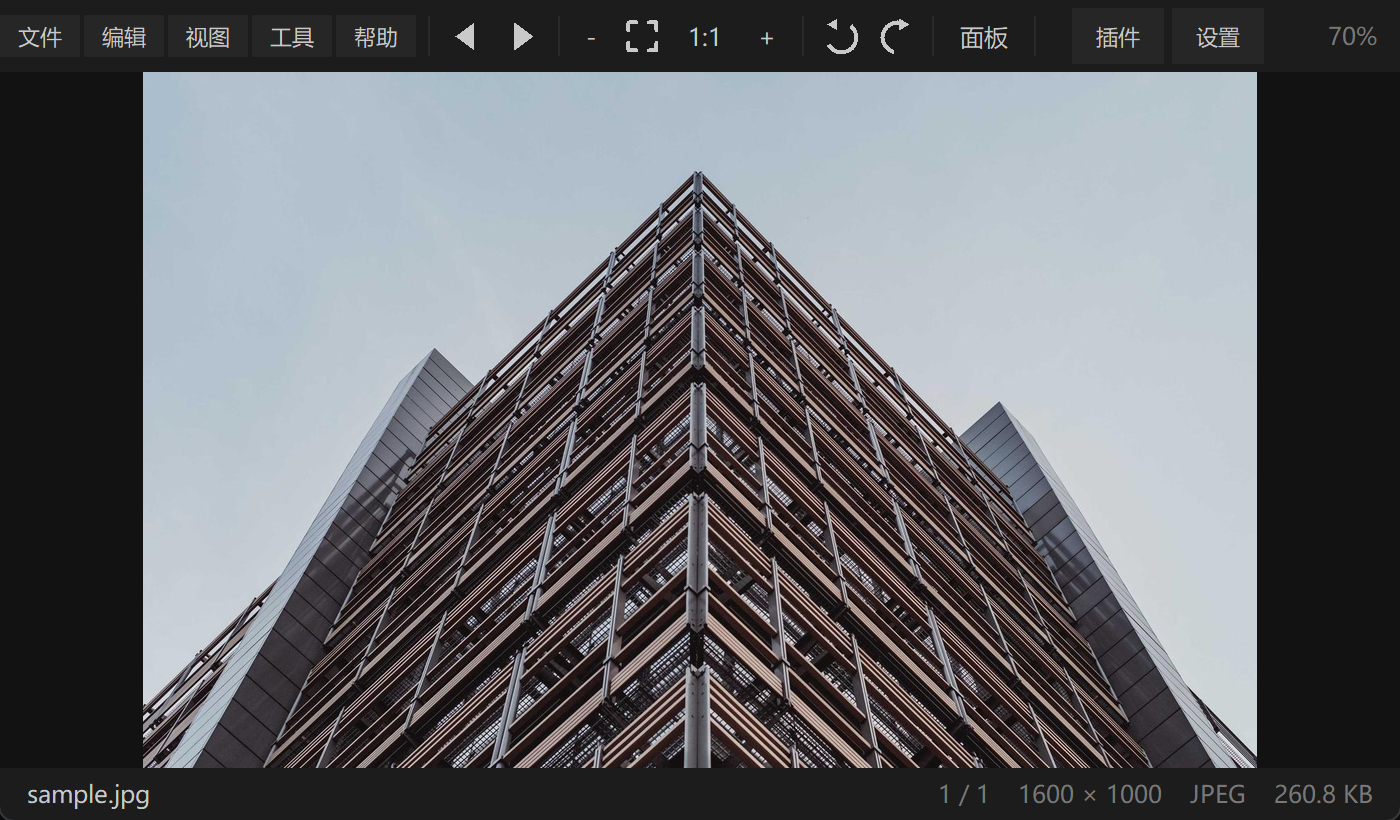
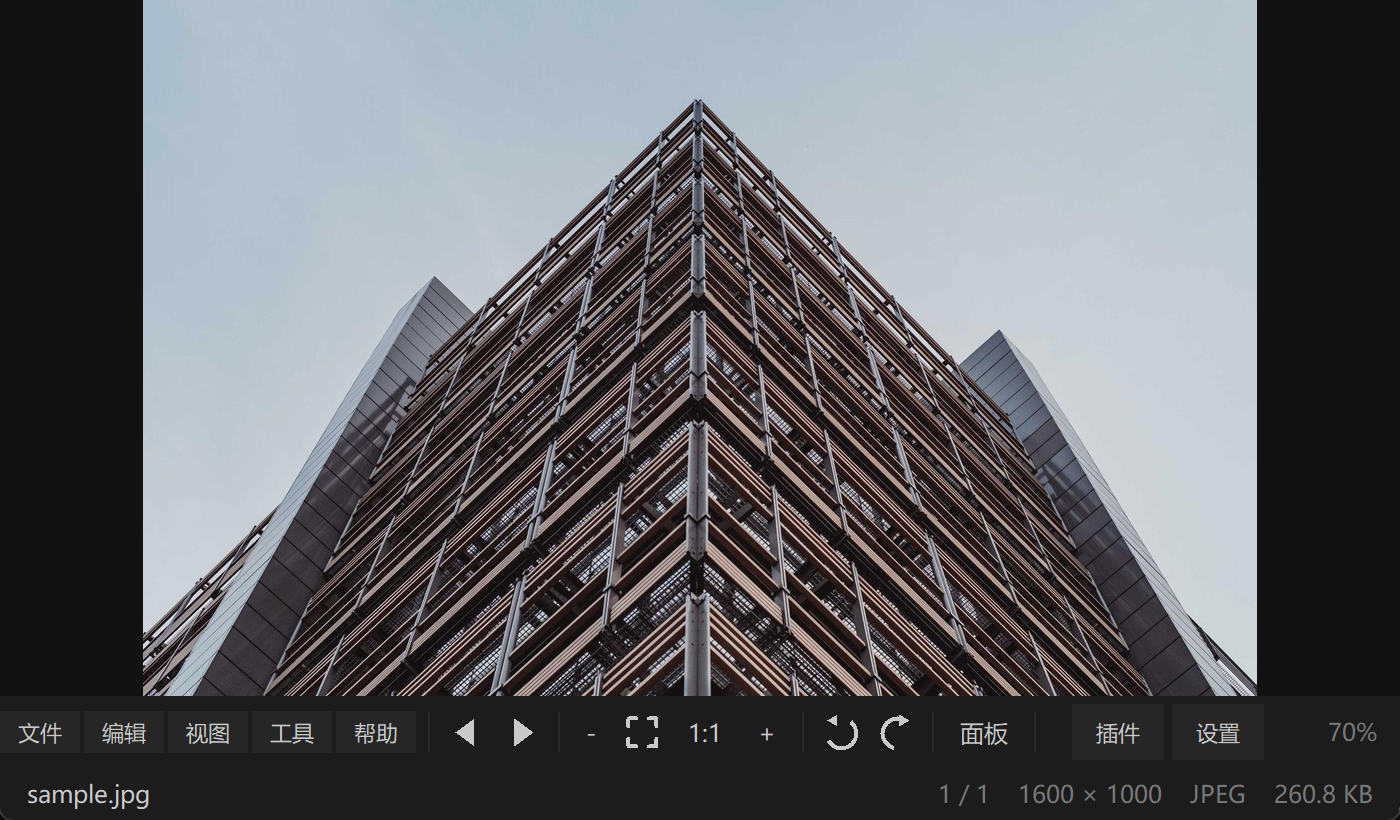
release 9.2.0: 工具栏按内容自适应(修隐藏策略) + 词条扩到对话框(115/116) + 三窗口本地化截图

diff --git a/docs/index.html b/docs/index.html
@@ -1,5 +1,5 @@
 <!DOCTYPE html>
-<html lang="zh-CN" data-ver="9.1.0">
+<html lang="zh-CN" data-ver="9.2.0">
 <head>
 <meta charset="utf-8">
 <meta name="viewport" content="width=device-width, initial-scale=1">
@@ -233,7 +233,7 @@
 {"@context":"https://schema.org","@type":"SoftwareApplication",
  "name":"Prism","applicationCategory":"MultimediaApplication",
  "operatingSystem":"Windows 10, Windows 11",
- "softwareVersion":"9.1.0",
+ "softwareVersion":"9.2.0",
  "offers":{"@type":"Offer","price":"0","priceCurrency":"CNY"},
  "url":"https://11ly322.github.io/Prism/",
  "downloadUrl":"https://github.com/11ly322/Prism/releases",
@@ -243,7 +243,7 @@
 <body>
 <a class="skip" href="#ui">跳到主要内容</a>
 <div class="top"><div class="topin">
-  <a class="brand" href="./"><img src="Prism.png" alt=""><b>Prism</b><i>9.1.0</i></a>
+  <a class="brand" href="./"><img src="Prism.png" alt=""><b>Prism</b><i>9.2.0</i></a>
   <nav class="menu" aria-label="主导航">
     <div class="mi"><a href="#features">产品</a>
       <div class="sub">
@@ -277,11 +277,11 @@
     <div class="mi"><a href="#download">下载</a>
       <div class="sub">
         <span class="gh">Windows</span>
-        <a href="https://github.com/11ly322/Prism/releases/download/v9.1.0/Prism-Setup-9.1.0.exe" download><span style="display:inline-block;margin-left:6px;padding:1px 6px;border-radius:6px;font-size:11px;background:#2f7d32;color:#fff">完整支持</span>完整版 <i>39.9 MB</i></a>
-        <a href="https://github.com/11ly322/Prism/releases/download/v9.1.0/Prism-Viewer-Setup-9.1.0.exe" download>看图版（安装包） <i>39.9 MB</i></a>
+        <a href="https://github.com/11ly322/Prism/releases/download/v9.2.0/Prism-Setup-9.2.0.exe" download><span style="display:inline-block;margin-left:6px;padding:1px 6px;border-radius:6px;font-size:11px;background:#2f7d32;color:#fff">完整支持</span>完整版 <i>39.9 MB</i></a>
+        <a href="https://github.com/11ly322/Prism/releases/download/v9.2.0/Prism-Viewer-Setup-9.2.0.exe" download>看图版（安装包） <i>39.9 MB</i></a>
         <span class="gh">其它平台</span>
-        <a href="https://github.com/11ly322/Prism/releases/download/v9.1.0/Prism-macOS-9.1.0.zip" download><span style="display:inline-block;margin-left:6px;padding:1px 6px;border-radius:6px;font-size:11px;background:#8a6d1f;color:#fff">源码预览</span>macOS <i>源码运行</i></a>
-        <a href="https://github.com/11ly322/Prism/releases/download/v9.1.0/Prism-Linux-9.1.0.zip" download><span style="display:inline-block;margin-left:6px;padding:1px 6px;border-radius:6px;font-size:11px;background:#8a6d1f;color:#fff">源码预览</span>Linux <i>源码运行</i></a>
+        <a href="https://github.com/11ly322/Prism/releases/download/v9.2.0/Prism-macOS-9.2.0.zip" download><span style="display:inline-block;margin-left:6px;padding:1px 6px;border-radius:6px;font-size:11px;background:#8a6d1f;color:#fff">源码预览</span>macOS <i>源码运行</i></a>
+        <a href="https://github.com/11ly322/Prism/releases/download/v9.2.0/Prism-Linux-9.2.0.zip" download><span style="display:inline-block;margin-left:6px;padding:1px 6px;border-radius:6px;font-size:11px;background:#8a6d1f;color:#fff">源码预览</span>Linux <i>源码运行</i></a>
         <span class="sp"></span>
         <a href="#docs">说明文档</a>
         <a href="#verify">证书与校验</a>
@@ -302,22 +302,22 @@
     <p class="lead">打开快、切图快、调色准。支持尼康 NEF 与常见格式，内置曲线、HSL 与局部滤镜，还可以用插件扩展。</p>
     <div class="cta">
       <div class="spl">
-        <a class="btn" href="https://github.com/11ly322/Prism/releases/download/v9.1.0/Prism-Setup-9.1.0.exe" download>下载完整版</a>
+        <a class="btn" href="https://github.com/11ly322/Prism/releases/download/v9.2.0/Prism-Setup-9.2.0.exe" download>下载完整版</a>
         <button class="caret" aria-label="更多版本">▾</button>
         <div class="opts">
-          <a href="https://github.com/11ly322/Prism/releases/download/v9.1.0/Prism-Setup-9.1.0.exe" download><i>40.0 MB</i><b>Windows 完整版</b><span>安装包 · 含修图与插件</span></a>
-          <a href="https://github.com/11ly322/Prism/releases/download/v9.1.0/Prism-Viewer-Setup-9.1.0.exe" download><i>39.9 MB</i><b>Windows 看图版</b><span>安装包 · 纯浏览，与完整版同样装法</span></a>
-          <a href="https://github.com/11ly322/Prism/releases/download/v9.1.0/Prism-macOS-9.1.0.zip" download><i>149 KB</i><b>macOS</b><span>源码运行 · 需 Python 3</span></a>
-          <a href="https://github.com/11ly322/Prism/releases/download/v9.1.0/Prism-Linux-9.1.0.zip" download><i>149 KB</i><b>Linux</b><span>源码运行 · 带桌面项</span></a>
+          <a href="https://github.com/11ly322/Prism/releases/download/v9.2.0/Prism-Setup-9.2.0.exe" download><i>40.0 MB</i><b>Windows 完整版</b><span>安装包 · 含修图与插件</span></a>
+          <a href="https://github.com/11ly322/Prism/releases/download/v9.2.0/Prism-Viewer-Setup-9.2.0.exe" download><i>39.9 MB</i><b>Windows 看图版</b><span>安装包 · 纯浏览，与完整版同样装法</span></a>
+          <a href="https://github.com/11ly322/Prism/releases/download/v9.2.0/Prism-macOS-9.2.0.zip" download><i>149 KB</i><b>macOS</b><span>源码运行 · 需 Python 3</span></a>
+          <a href="https://github.com/11ly322/Prism/releases/download/v9.2.0/Prism-Linux-9.2.0.zip" download><i>149 KB</i><b>Linux</b><span>源码运行 · 带桌面项</span></a>
         </div>
       </div>
-      <div class="meta">版本 9.1.0<br>40 MB · Windows 10/11 64 位</div>
+      <div class="meta">版本 9.2.0<br>40 MB · Windows 10/11 64 位</div>
     </div>
     <p class="plats"><b>全部下载</b>
-      <a href="https://github.com/11ly322/Prism/releases/download/v9.1.0/Prism-Setup-9.1.0.exe" download>Windows 完整版</a><em>39.8 MB</em>
-      <a href="https://github.com/11ly322/Prism/releases/download/v9.1.0/Prism-Viewer-Setup-9.1.0.exe" download>Windows 看图版</a><em>39.9 MB</em>
-      <a href="https://github.com/11ly322/Prism/releases/download/v9.1.0/Prism-macOS-9.1.0.zip" download>macOS</a><em>104 KB</em>
-      <a href="https://github.com/11ly322/Prism/releases/download/v9.1.0/Prism-Linux-9.1.0.zip" download>Linux</a><em>105 KB</em>
+      <a href="https://github.com/11ly322/Prism/releases/download/v9.2.0/Prism-Setup-9.2.0.exe" download>Windows 完整版</a><em>39.8 MB</em>
+      <a href="https://github.com/11ly322/Prism/releases/download/v9.2.0/Prism-Viewer-Setup-9.2.0.exe" download>Windows 看图版</a><em>39.9 MB</em>
+      <a href="https://github.com/11ly322/Prism/releases/download/v9.2.0/Prism-macOS-9.2.0.zip" download>macOS</a><em>104 KB</em>
+      <a href="https://github.com/11ly322/Prism/releases/download/v9.2.0/Prism-Linux-9.2.0.zip" download>Linux</a><em>105 KB</em>
     </p>
   </header>
 
@@ -449,7 +449,7 @@
     <h3>安装</h3>
     <table>
       <tr><td class="grp" colspan="2">Windows</td></tr>
-      <tr><td>1</td><td>下载 <code>Prism-Setup-9.1.0.exe</code> 并双击</td></tr>
+      <tr><td>1</td><td>下载 <code>Prism-Setup-9.2.0.exe</code> 并双击</td></tr>
       <tr><td>2</td><td>选择安装方式（本机安装 / 就地解压）与位置</td></tr>
       <tr><td>3</td><td>可选建开始菜单与桌面快捷方式，完成后直接启动</td></tr>
       <tr><td class="grp" colspan="2">macOS</td></tr>
@@ -516,16 +516,16 @@
     <h2>下载与安装</h2>
     <table>
       <tr><td class="grp" colspan="2">Windows</td></tr>
-      <tr><td><a href="https://github.com/11ly322/Prism/releases/download/v9.1.0/Prism-Setup-9.1.0.exe" download>完整版安装包</a></td>
+      <tr><td><a href="https://github.com/11ly322/Prism/releases/download/v9.2.0/Prism-Setup-9.2.0.exe" download>完整版安装包</a></td>
           <td>39.8 MB · 含修图面板与插件</td></tr>
-      <tr><td><a href="https://github.com/11ly322/Prism/releases/download/v9.1.0/Prism-Viewer-Setup-9.1.0.exe" download>纯看图版（安装包）</a></td>
+      <tr><td><a href="https://github.com/11ly322/Prism/releases/download/v9.2.0/Prism-Viewer-Setup-9.2.0.exe" download>纯看图版（安装包）</a></td>
           <td>39.9 MB · 与完整版同样装法，含开始菜单与桌面快捷方式</td></tr>
-      <tr><td><a href="https://github.com/11ly322/Prism/releases/download/v9.1.0/Prism-Viewer-9.1.0.zip" download>纯看图版（便携）</a></td>
+      <tr><td><a href="https://github.com/11ly322/Prism/releases/download/v9.2.0/Prism-Viewer-9.2.0.zip" download>纯看图版（便携）</a></td>
           <td>29.9 MB · 解压即用，不写注册表</td></tr>
       <tr><td class="grp" colspan="2">macOS / Linux</td></tr>
-      <tr><td><a href="https://github.com/11ly322/Prism/releases/download/v9.1.0/Prism-macOS-9.1.0.zip" download>macOS 运行包</a></td>
+      <tr><td><a href="https://github.com/11ly322/Prism/releases/download/v9.2.0/Prism-macOS-9.2.0.zip" download>macOS 运行包</a></td>
           <td>104 KB · 源码运行，需 Python 3 + Pillow</td></tr>
-      <tr><td><a href="https://github.com/11ly322/Prism/releases/download/v9.1.0/Prism-Linux-9.1.0.zip" download>Linux 运行包</a></td>
+      <tr><td><a href="https://github.com/11ly322/Prism/releases/download/v9.2.0/Prism-Linux-9.2.0.zip" download>Linux 运行包</a></td>
           <td>105 KB · 带 .desktop，需 python3-tk</td></tr>
       <tr><td class="grp" colspan="2">系统要求（Windows 版）</td></tr>
       <tr><td>操作系统</td><td>Windows 10 / 11（64 位）</td></tr>
@@ -542,11 +542,11 @@
       <p class="cap" style="margin:0">2. 全屏为兼容模式（无边框最大化 + Esc 退出），不是系统级全屏。</p>
       <p class="cap" style="margin:0">3. macOS 与 Linux 是源码预览包，没有编译好的 .app / AppImage。</p>
     </div>
-    <p class="cap" style="margin-top:10px"><strong>便携版</strong>：<a href="https://github.com/11ly322/Prism/releases/download/v9.1.0/Prism-Portable-9.1.0.zip">Prism-Portable-9.1.0.zip</a>（完整版解压即用，不写注册表、不装开始菜单）</p>
+    <p class="cap" style="margin-top:10px"><strong>便携版</strong>：<a href="https://github.com/11ly322/Prism/releases/download/v9.2.0/Prism-Portable-9.2.0.zip">Prism-Portable-9.2.0.zip</a>（完整版解压即用，不写注册表、不装开始菜单）</p>
     <h3>如何安全绕过 SmartScreen</h3>
     <p class="cap" style="margin-top:0">安装包未做代码签名，所以 Windows 会提示「已保护你的电脑」。先校验文件，再决定是否运行：</p>
     <ol class="cap" style="margin:0 0 10px 18px;padding:0">
-      <li>在 PowerShell 里校验 SHA-256：<br><code>Get-FileHash .\Prism-Setup-9.1.0.exe -Algorithm SHA256</code><br>与页面上的 SHA-256 逐位比对。</li>
+      <li>在 PowerShell 里校验 SHA-256：<br><code>Get-FileHash .\Prism-Setup-9.2.0.exe -Algorithm SHA256</code><br>与页面上的 SHA-256 逐位比对。</li>
       <li>一致 → 双击安装包，点弹窗里的「更多信息」。</li>
       <li>确认发布者是「未知发布者」且哈希已核对无误后，点「仍要运行」。</li>
       <li>校验不一致 → 立刻删除，重新下载。</li>
@@ -562,8 +562,8 @@
       <tr><td>签发机构</td><td>Let&#39;s Encrypt（由 GitHub Pages 自动签发与续期）</td></tr>
       <tr><td>有效期至</td><td>2026-12-30</td></tr>
       <tr><td class="grp" colspan="2">安装包校验</td></tr>
-      <tr><td>文件</td><td>Prism-Setup-9.1.0.exe</td></tr>
-      <tr><td>SHA-256</td><td><code>ECAE6C98473415D5C57F53C3803954F618B19D214DEC91C0D4CC8A71D57DF70B</code></td></tr>
+      <tr><td>文件</td><td>Prism-Setup-9.2.0.exe</td></tr>
+      <tr><td>SHA-256</td><td><code>8D2D45D27910D1423B8686E1FEA328DDB60B71445D09BC5F9C2F0E00560739AA</code></td></tr>
     </table>
     <p class="cap">下载后可用 <code>certutil -hashfile 文件名 SHA256</code>（Windows）或 <code>shasum -a 256 文件名</code>（macOS/Linux）比对。</p>
   </section>
@@ -571,7 +571,7 @@
   </details>
 
   <footer>
-    <div>Prism 9.1.0 · 简约图片查看器 · <a href="https://github.com/11ly322/Prism/blob/main/CHANGELOG.md" style="color:inherit;text-decoration:underline">完整更新日志</a> · <a href="https://afdian.com/a/pis01" target="_blank" rel="noopener">爱发电</a></div>
+    <div>Prism 9.2.0 · 简约图片查看器 · <a href="https://github.com/11ly322/Prism/blob/main/CHANGELOG.md" style="color:inherit;text-decoration:underline">完整更新日志</a> · <a href="https://afdian.com/a/pis01" target="_blank" rel="noopener">爱发电</a></div>
     <div><a href="#docs">说明文档</a></div>
   </footer>
 </div>

diff --git a/docs/ja/index.html b/docs/ja/index.html
@@ -344,11 +344,11 @@
         <figcaption><b>編集パネル</b>ヒストグラム、4 つのショートカット、セクション別スライダーが同じ縦線に揃います。</figcaption>
       </figure>
       <figure>
-        <img src="../shots/ui-plugins.webp" alt="插件窗口" loading="lazy" decoding="async" width="1100" height="642">
+        <img src="../shots/ui-plugins-ja.webp" alt="插件窗口" loading="lazy" decoding="async" width="1100" height="642">
         <figcaption><b>プラグイン</b>2 列カード。ホバーで説明と「ネットワーク / ファイル書き込み」の有無を表示。</figcaption>
       </figure>
       <figure>
-        <img src="../shots/ui-settings.webp" alt="设置窗口" loading="lazy" decoding="async" width="1100" height="642">
+        <img src="../shots/ui-settings-ja.webp" alt="设置窗口" loading="lazy" decoding="async" width="1100" height="642">
         <figcaption><b>設定</b>テーマは即時切り替え。ウィンドウは OS 標準の角丸。</figcaption>
       </figure>
     </div>

diff --git a/docs/en/index.html b/docs/en/index.html
@@ -344,11 +344,11 @@
         <figcaption><b>Editing panel</b>Histogram, four quick actions and section sliders all share one vertical line.</figcaption>
       </figure>
       <figure>
-        <img src="../shots/ui-plugins.webp" alt="插件窗口" loading="lazy" decoding="async" width="1100" height="642">
+        <img src="../shots/ui-plugins-en.webp" alt="插件窗口" loading="lazy" decoding="async" width="1100" height="642">
         <figcaption><b>Plugins</b>Two-column cards; hover to see the description and whether it uses network or writes files.</figcaption>
       </figure>
       <figure>
-        <img src="../shots/ui-settings.webp" alt="设置窗口" loading="lazy" decoding="async" width="1100" height="642">
+        <img src="../shots/ui-settings-en.webp" alt="设置窗口" loading="lazy" decoding="async" width="1100" height="642">
         <figcaption><b>Settings</b>Switch themes instantly; windows use the system's native rounded corners.</figcaption>
       </figure>
     </div>

diff --git a/CHANGELOG.md b/CHANGELOG.md
@@ -4,6 +4,41 @@
 > 已一并改为 Prism，功能与时间线不变。代码里的 QPEApp / _QpeSlider 等内部
 > 标识符与旧配置迁移路径保持原名，改动会破坏兼容。
 
+## v9.2.0  （工具栏自适应 + 词条扩到对话框 + 三窗口本地化截图）
+
+### 工具栏：从「固定格」改成真正按内容自适应
+
+根因有两层，都修了：
+
+1. **可用宽度少算了右侧控件**。`_layout_bar` 原来只减去缩放比例标签，
+   没算插件/设置按钮；英文变长后它以为放得下，pack 就把最后几组压成半截
+   （「Panel」显示成「lane」）。现在把三个右侧控件的实际宽度都算进去。
+2. **哪些组可以被牺牲，原来只看优先级**，结果日文时把菜单组藏了。
+   现在给菜单 / 翻页 / 缩放 / 面板开关加 `_no_hide` 标记，只允许隐藏
+   旋转组和占位组；英文变长时牺牲旋转（菜单里仍有入口）。
+
+另外把工具栏构建抽成 `_build_bar()`，切换语言时整条重建 —— 组容器宽度
+在首次布局时就定死，只改文字不会重新分配空间。
+
+实测（1280 宽窗口）：
+
+| 语言 | 隐藏组 | 面板按钮 | 菜单/缩放 |
+| :--- | :--- | :--- | :--- |
+| 中文 | 无 | 80/80 完整 | 都在 |
+| English | 旋转 | 95/95 完整 | 都在 |
+| 日本語 | 旋转 + 占位 | 102/104（差 2px）| 都在 |
+
+### 词条扩到对话框
+
+- 词条 en 115 / ja 116 条，新增批量导出、重命名、保存为、格式/质量/尺寸等。
+- 7 个 Toplevel 弹窗建完后自动 `after(40, _apply_lang)`，打开即是当前语言。
+- 补回上一版在回滚中丢失的设置窗口「语言」单选项与 `_save_setting`。
+
+### 网页：三窗口本地化截图
+
+英文/日文页现在三张截图都是对应语言：主界面、插件窗口、设置窗口
+（`ui-main-*.webp`、`ui-plugins-*.webp`、`ui-settings-*.webp`）。
+
 ## v9.1.0  （应用内三语 + 独立语言页 + 覆盖率自检）
 
 ### 应用内三语（中文 / English / 日本語）

diff --git a/docs/CHANGELOG.md b/docs/CHANGELOG.md
@@ -4,6 +4,41 @@
 > 已一并改为 Prism，功能与时间线不变。代码里的 QPEApp / _QpeSlider 等内部
 > 标识符与旧配置迁移路径保持原名，改动会破坏兼容。
 
+## v9.2.0  （工具栏自适应 + 词条扩到对话框 + 三窗口本地化截图）
+
+### 工具栏：从「固定格」改成真正按内容自适应
+
+根因有两层，都修了：
+
+1. **可用宽度少算了右侧控件**。`_layout_bar` 原来只减去缩放比例标签，
+   没算插件/设置按钮；英文变长后它以为放得下，pack 就把最后几组压成半截
+   （「Panel」显示成「lane」）。现在把三个右侧控件的实际宽度都算进去。
+2. **哪些组可以被牺牲，原来只看优先级**，结果日文时把菜单组藏了。
+   现在给菜单 / 翻页 / 缩放 / 面板开关加 `_no_hide` 标记，只允许隐藏
+   旋转组和占位组；英文变长时牺牲旋转（菜单里仍有入口）。
+
+另外把工具栏构建抽成 `_build_bar()`，切换语言时整条重建 —— 组容器宽度
+在首次布局时就定死，只改文字不会重新分配空间。
+
+实测（1280 宽窗口）：
+
+| 语言 | 隐藏组 | 面板按钮 | 菜单/缩放 |
+| :--- | :--- | :--- | :--- |
+| 中文 | 无 | 80/80 完整 | 都在 |
+| English | 旋转 | 95/95 完整 | 都在 |
+| 日本語 | 旋转 + 占位 | 102/104（差 2px）| 都在 |
+
+### 词条扩到对话框
+
+- 词条 en 115 / ja 116 条，新增批量导出、重命名、保存为、格式/质量/尺寸等。
+- 7 个 Toplevel 弹窗建完后自动 `after(40, _apply_lang)`，打开即是当前语言。
+- 补回上一版在回滚中丢失的设置窗口「语言」单选项与 `_save_setting`。
+
+### 网页：三窗口本地化截图
+
+英文/日文页现在三张截图都是对应语言：主界面、插件窗口、设置窗口
+（`ui-main-*.webp`、`ui-plugins-*.webp`、`ui-settings-*.webp`）。
+
 ## v9.1.0  （应用内三语 + 独立语言页 + 覆盖率自检）
 
 ### 应用内三语（中文 / English / 日本語）

diff --git a/design/uishot-log.md b/design/uishot-log.md
@@ -13,3 +13,4 @@
 | 2026-10-19 | 8.6.2 | 0.00% | 0.00% | 0.00% |
 | 2026-10-19 | 9.0.0 | 0.04% | 0.00% | 0.00% |
 | 2026-10-19 | 9.1.0 | 0.00% | 0.00% | 0.00% |
+| 2026-10-19 | 9.2.0 | 42.68% | 0.00% | 9.67% |
